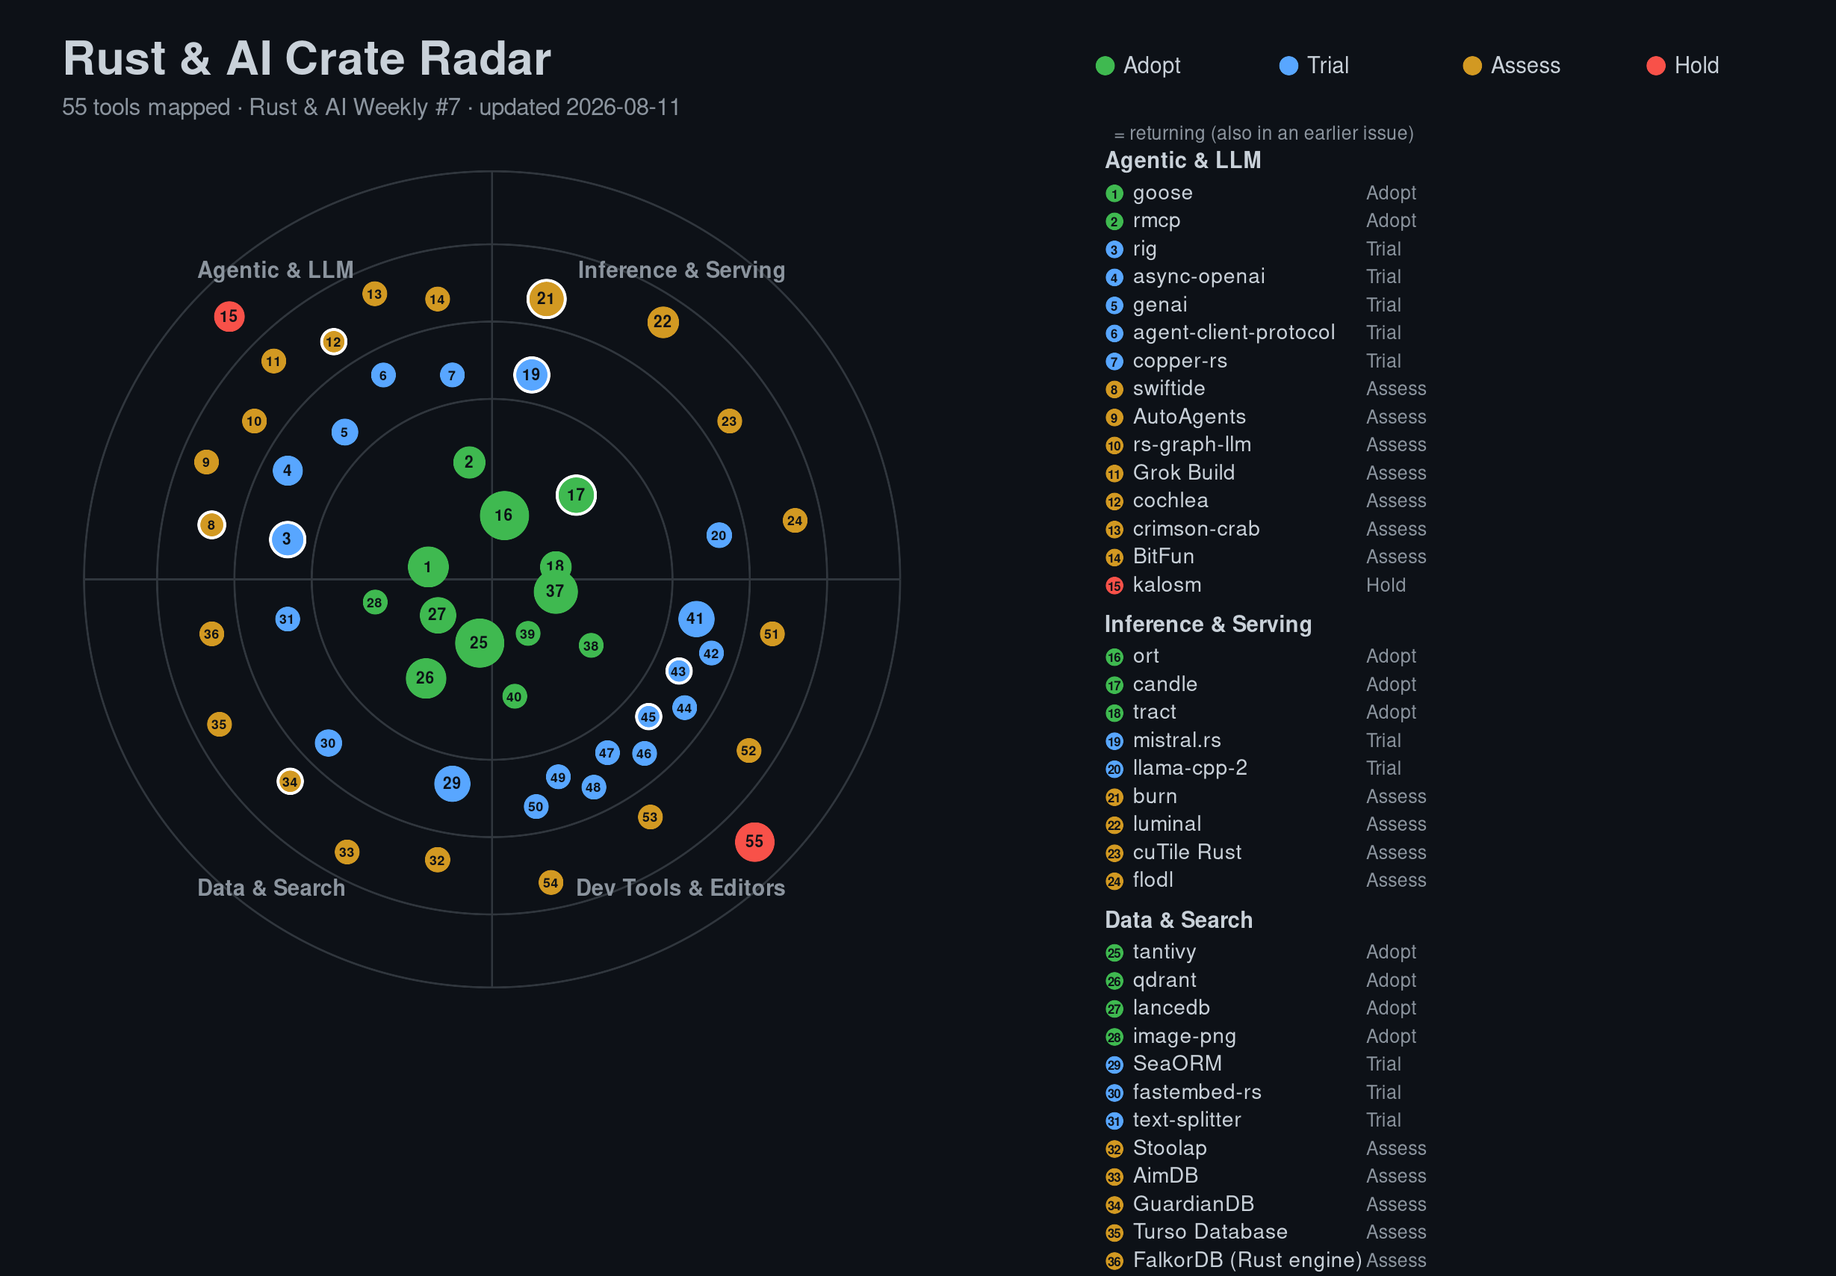
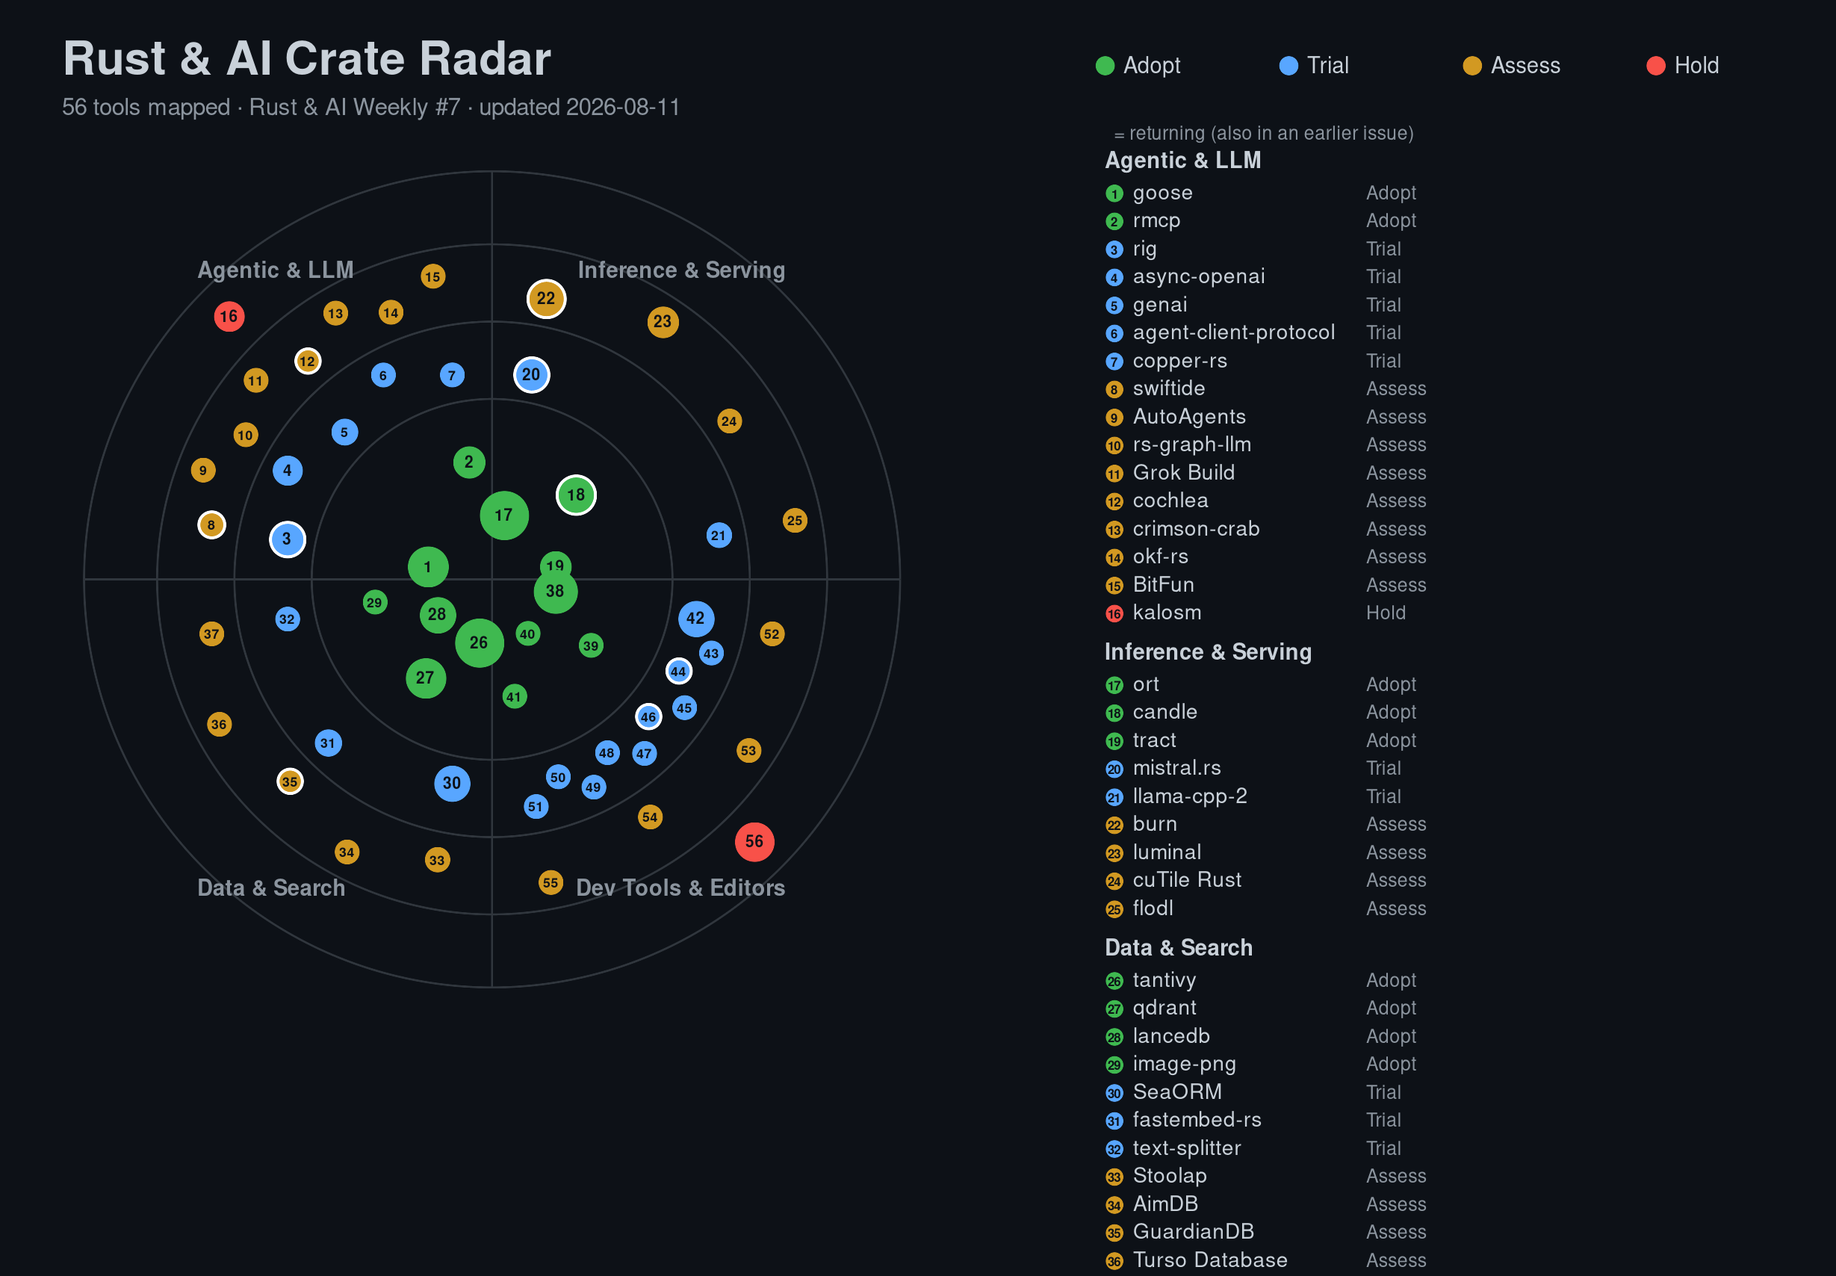
feat(radar): add okf-rs to Rust & AI Weekly #7 and crate radar
Adds okf-rs (tree-sitter codebase to deterministic Markdown call-graph
bundle, served over MCP) as a fifth new entry in issue #7, bringing the
radar to 56 tools.

- crateRadar.ts: new Assess-ring entry under agentic/code-knowledge
- issue #7 mdx: okf-rs write-up, updated intro count, added to the
  self-audit thread in the closing section
- launch notes: matching HTML block, extra X thread reply, alternate
  LinkedIn post on the context-economics angle, reader-pick credit and
  pre-publication verification caveats
- regenerated radar images and social cards (PNGs re-optimized, 547KB to
  230KB for the social card)

diff --git a/apps/web/src/data/crateRadar.ts b/apps/web/src/data/crateRadar.ts
@@ -407,6 +407,13 @@ export const crateRadarTools: RadarTool[] = [
     note: 'btop-style live monitor for what is actually in a Claude Code session context window: context map, cache economics, subagents; ships a forensic autopsy of its own vibe-coded construction (152h41m, 1,235 turns, ~$1,046, ~98% cache hit rate)',
   },
   {
+    name: 'okf-rs', url: 'https://github.com/jyjeanne/okf-rs', category: 'agentic/code-knowledge', quadrant: 'agentic',
+    ring: 'Assess', maintenance: 'brand new, solo maintainer (Jeremy JEANNE); MIT/Apache-2.0', latest: 'announced Aug 1, 2026; installs via cargo install --git (not on crates.io)',
+    adopters: 'none named; dogfooded on its own ~850-concept codebase',
+    mentions: 'Rust & AI Weekly #7 (2026-08-11)', returning: false,
+    note: 'tree-sitter codebase to deterministic, git-diffable Markdown call-graph bundle (Open Knowledge Format) plus an okf-mcp stdio server exposing graph_callers/callees/cycles/explore to any MCP client; precomputes the lookups agents currently pay full file size to answer; author-estimated ~6,000 tokens by hand vs ~15 via graph_callers; huge surface for one maintainer',
+  },
+  {
     name: 'BitFun', url: 'https://github.com/GCWing/BitFun', category: 'agentic/desktop', quadrant: 'agentic',
     ring: 'Assess', maintenance: 'actively developed (GCWing)', latest: 'v0.2.17 (Aug 2026)',
     adopters: 'none named',

diff --git a/apps/web/content/blog/_launch-notes-rust-ai-weekly-7.md b/apps/web/content/blog/_launch-notes-rust-ai-weekly-7.md
@@ -1,10 +1,11 @@
 # Launch pack — Rust & AI Weekly #7
 
 Live URL (verify 200 first): https://decebaldobrica.com/blog/2026-08-11-rust-ai-weekly-7
+Source file: `apps/web/content/blog/2026-08-11-rust-ai-weekly-7.mdx` (already renamed to match the slug — no `git mv` needed)
 Canonical for syndication (dev.to / Hashnode / Medium): same URL.
 
 Assets:
-- Radar image: `apps/web/public/images/radar/2026-08-11-radar.png` (55 tools, issue #7)
+- Radar image: `apps/web/public/images/radar/2026-08-11-radar.png` (56 tools, issue #7)
 - Issue card (X / LinkedIn / OG): `docs/social/rust-ai-weekly-7-card.png` (source: `rust-ai-weekly-7-card.svg`); 1250px copy at `apps/web/public/images/social/2026-08-11-rust-ai-weekly-7.png`
 - Hook card (standalone LinkedIn/X image for the "thought for the week"): `docs/social/publish-the-audit.png` (source: `publish-the-audit.svg`, plus `publish-the-audit.html` for the Playwright path)
 
@@ -21,7 +22,7 @@ Assets:
 ```html
 <p>Welcome back to <strong>Rust &amp; AI Weekly</strong>, the curated, vetted sweep of crates and tools showing up where Rust meets AI. Today's issue: webrtc-rs ships its Sans-I/O rewrite and grades its own roadmap, FalkorDB moves 80,000 lines of graph engine to Rust for GraphRAG, and a btop for your Claude Code context window. The theme this week is <strong>publish the audit</strong>: the lead story ships a scorecard of its own January promises, including the ones it broke; the graph database rewrite counted its test scenarios before it was allowed to count benchmarks; and even the Rust project itself wrote down the rules for auditing AI-written contributions. Roadmaps age; audits compound.</p>
 <p><em>(Status lines reflect public signals as of August 11, 2026; stars and downloads are approximate and move fast.)</em></p>
-<p>[[[ DROP 2026-08-11-radar.png HERE — caption: This week's radar: four new entries join the map, and kache logs yet another return visit. Link caption to https://decebaldobrica.com/radar ]]]</p>
+<p>[[[ DROP 2026-08-11-radar.png HERE — caption: This week's radar: five new entries join the map, and kache logs yet another return visit. Link caption to https://decebaldobrica.com/radar ]]]</p>
 <h2>Pick of the week</h2>
 <p><a href="https://webrtc.rs/blog/2026/07/31/announcing-webrtc-v0.20.0.html"><strong>webrtc 0.20</strong></a> — the most complete batteries-included Rust WebRTC implementation shipped the first stable release of its ground-up rewrite, and it matters to this newsletter for a simple reason: WebRTC is the transport under most real-time voice and video AI agents, and until now this option was a Tokio-coupled callback maze. The new architecture is Sans-I/O: the protocol state machines live in a separate <code>rtc</code> core you can test by feeding bytes and advancing a virtual clock, and the async crate on top is a thin driver with one handler trait replacing six-plus callback registrations. That design is a quiet vindication of <a href="https://github.com/algesten/str0m">str0m</a>, the sans-I/O Rust WebRTC stack that has been arguing this shape for years and already powers production SFUs. The <code>Runtime</code> trait became a genuine extension point late in the cycle, so runtime choice is per connection (Tokio, smol, or one you wrote yourself) rather than per binary, and the benchmarks come with receipts: data channels beat Pion by 1.7 to 3.2x in multi-connection aggregate at roughly a quarter of the CPU cycles per byte, while the release post admits plainly that single-connection default config still loses to Go's scheduler. What earns the pick, though, is the scorecard section: the team lined up January's published design against what shipped, and printed the misses next to the wins (no stream API, <code>&amp;self</code> instead of the promised <code>&amp;mut self</code>, an unfilled browser-interop matrix, two metrics simply unmeasured). The migration from 0.17.x is a real port, not a version bump, and 0.17.x is now bug-fix-only, so this belongs on a calendar the way syn 3 did last issue. Go deeper with <a href="https://webrtc.rs/blog/2026/07/18/from-13-mbps-to-beating-pion">From 13 Mbps to Beating Pion</a>, the performance war story behind the throughput table.</p>
 <p><em>Maintenance: actively maintained (webrtc-rs org; Sans-I/O rtc core underneath) · Latest: v0.20.2 (Aug 11, 2026; 0.20.0 landed Jul 31, two patches since, and a 0.21 alpha already tagged) · Adoption: <strong>Trial</strong>; the architecture is right and the receipts are honest, but the stable line is two weeks old and still taking patches, so port a non-critical service first</em></p>
@@ -31,6 +32,8 @@ Assets:
 <h2>Agents &amp; AI</h2>
 <p><a href="https://github.com/arian-shamaei/anthropometer"><strong>amtr</strong></a> — Arian Shamaei built a btop-style monitor that attaches to a Claude Code session and shows, live, exactly what is in the model's context window: a context map, cache economics, and subagent activity. Every team running coding agents eventually asks "what is actually in the context right now", and until now the honest answer was a shrug. The recursive twist is that amtr was itself vibe-coded in Claude Code, which means the complete token-level record of its own construction sits on disk in the very format it reads, and the repo ships a <a href="https://github.com/arian-shamaei/anthropometer/tree/main/docs/autopsy">forensic autopsy</a> of that build: 152 hours 41 minutes across 1,235 turns, roughly $1,046, and for every fresh token the model read it re-read about 120,000 from cache, a ~98% hit rate overall. That autopsy is the most concrete public accounting of what a long agentic build actually costs that I have seen, and it is worth reading before your next planning conversation about agent budgets.</p>
 <p><em>Maintenance: brand new, solo maintainer (Arian Shamaei) · Latest: v0.1.5 (Jul 30, 2026) · Adoption: <strong>Assess</strong>; a 0.1.x tool, but context observability is a category your team already needs, and the autopsy is required reading either way</em></p>
+<p><a href="https://github.com/jyjeanne/okf-rs"><strong>okf-rs</strong></a> — Jeremy JEANNE's Rust CLI attacks the problem amtr measures. An agent asked "who calls this function?" greps, opens half a dozen files, and pays full file size in context tokens to answer what is fundamentally a lookup. okf-rs precomputes it: <code>generate</code> walks a repo with tree-sitter and emits an Open Knowledge Format bundle, one plain Markdown file per module, struct, function, or method, each carrying a YAML header, a signature, and cross-linked callers and callees. The design choices are the interesting part. Output is deterministic, so identical source produces byte-identical files and the bundle is git-diffable and reviewable in a PR. Nothing proprietary reads it back: it is Markdown that renders on GitHub, so no runtime, no vector store, and no SDK sits between you and the artifact. No LLM is involved in producing it either, which keeps the optional AI enrichment genuinely optional rather than load-bearing. The payoff is <code>okf-mcp</code>, a stdio MCP server exposing <code>graph_callers</code>, <code>graph_callees</code>, <code>graph_cycles</code>, and a composite <code>explore</code> query to any MCP client, so the expensive parsing happens once at generate time instead of being re-paid on every question. Jeremy's headline figure, and it is his own estimate rather than an independent benchmark, is a single question on his codebase costing roughly 6,000 tokens read by hand against about 15 through <code>graph_callers</code>. Treat the multiplier as directional; the structural argument under it holds either way. The honest cautions: this is one maintainer carrying a very large surface (eleven languages, LSP disambiguation, Tantivy-backed search, DITA round-tripping, a PR-review GitHub Action), it installs from git rather than crates.io, and every number in the announcement is self-reported. It earns a place in this week's theme anyway, because the write-up records that dogfooding on its own roughly 850-concept codebase caught a real DITA bug a hand-written fixture would never have surfaced.</p>
+<p><em>Maintenance: brand new, solo maintainer (Jeremy JEANNE); MIT/Apache-2.0 · Latest: announced Aug 1, 2026; installs via <code>cargo install --git</code> · Adoption: <strong>Assess</strong>; the bundle format is the low-risk half (delete the directory and you are out), maintainer concentration is the real risk, so wire it into one repo's CI and see whether your agents' token curve actually flattens</em></p>
 <p><a href="https://github.com/GCWing/BitFun"><strong>BitFun</strong></a> — a desktop agent suite pairing a Rust agent runtime with a Tauri shell: a Code Agent, a general-purpose Cowork Agent, and Computer Use, with the interesting design bet that the agent builds a live interface per task (a chart, a board, a form) and binds the conversation to that interface's state. The performance claim worth noting is a resident cross-turn index the project says cuts search time by up to 94.6% on Chromium-scale trees, roughly 36x on average. Claims is the operative word: the project is at 0.2.17 after a burst of releases, and every number here is self-reported, including a 98.67% cache hit rate on a SWE-Bench-Pro run. It lands on the radar because the Rust-runtime-plus-Tauri-shell shape is becoming the default architecture for desktop agents (goose made the same call with TypeScript up top), and BitFun is the most complete open example of it this week.</p>
 <p><em>Maintenance: actively developed (GCWing) · Latest: v0.2.17 (Aug 2026) · Adoption: <strong>Assess</strong>; try the installer, read the runtime, and treat every benchmark claim as unverified until someone reproduces it</em></p>
 <h2>Language watch</h2>
@@ -49,7 +52,7 @@ Assets:
 <li>Lukas Herman wrote up <a href="https://pulsebeam.dev/blog/moving-to-thread-per-core">how PulseBeam cut its WebRTC SFU's P99.99 latency from 70ms to 10ms</a> by moving from Tokio work-stealing to thread-per-core, gaining 25% capacity on the way. Read it next to this issue's lead: their SFU runs on str0m with a per-thread <code>LocalRuntime</code>, and webrtc 0.20's dedicated-reactor benchmark tells the same story from the library side. On latency-bound real-time paths, scheduler choice is the architecture.</li>
 </ul>
 <h2>A thought for the week</h2>
-<p>The strongest pattern this week is not a crate, it is a genre: the self-audit. webrtc-rs printed its January roadmap next to what shipped and labeled the gaps. FalkorDB refused to benchmark until the test suite said the rewrite was correct. flodl did the same thing two issues ago with its own instruments. The reason this matters to engineering leaders is that roadmaps are cheap to write and expensive to check, so almost nobody checks them in public, and the teams that do are handing you their most reliable signal for free. When you evaluate a dependency, or a vendor, or for that matter a quarterly plan, ask for the column that lists what was promised and did not ship. Teams that publish that column have already done the hardest part of engineering management, which is telling the truth on a schedule.</p>
+<p>The strongest pattern this week is not a crate, it is a genre: the self-audit. webrtc-rs printed its January roadmap next to what shipped and labeled the gaps. FalkorDB refused to benchmark until the test suite said the rewrite was correct. okf-rs published the bug its own dogfooding found. flodl did the same thing two issues ago with its own instruments. The reason this matters to engineering leaders is that roadmaps are cheap to write and expensive to check, so almost nobody checks them in public, and the teams that do are handing you their most reliable signal for free. When you evaluate a dependency, or a vendor, or for that matter a quarterly plan, ask for the column that lists what was promised and did not ship. Teams that publish that column have already done the hardest part of engineering management, which is telling the truth on a schedule.</p>
 <h2>Before I go</h2>
 <p>The quote of the week comes from Koosha on the Rust users forum, abandoning a macro experiment because "the macro rules were turning into a turing complete rust syntax parser". Every proc-macro author has lived that sentence; it is also, quietly, the case for syn 3 from last issue.</p>
 <p>Also worth your time: Sylvain Kerkour wrote up <a href="https://kerkour.com/firecracker-sandboxing-rust">how Firecracker microVMs sandbox untrusted code and AI agents</a> under the hood. If you run agent-generated code anywhere near production, this is the isolation layer to understand.</p>
@@ -59,21 +62,29 @@ Assets:
 
 ---
 
-## X hook (267 chars)
+## X hook (271 chars)
 
 Attach: `docs/social/rust-ai-weekly-7-card.png`
 
 > Rust & AI Weekly #7 is out: publish the audit.
 >
-> webrtc-rs ships its Sans-I/O rewrite and grades its own January roadmap, misses included. FalkorDB moves 80k lines of graph engine to Rust. A btop for your Claude Code context window.
+> webrtc-rs ships its Sans-I/O rewrite and grades its own January roadmap, misses included. FalkorDB moves 80k lines of graph engine to Rust. Two Rust tools go after your agent's context bill.
 >
 > https://decebaldobrica.com/blog/2026-08-11-rust-ai-weekly-7
 
-### Optional X follow-up (thread reply)
+### X thread replies (optional, post in order)
+
+**Reply 1 — the measurement**
 
 > The amtr autopsy is the number I keep thinking about: 152h41m, 1,235 turns, ~$1,046, and for every token the model read fresh it re-read ~120,000 from cache.
 >
 > A 98% cache hit rate is not a footnote. It's the economics of long agentic builds.
+
+**Reply 2 — the fix**
+
+> okf-rs goes at the same problem from the other end: tree-sitter your repo into a deterministic Markdown call-graph bundle, then serve it over MCP.
+>
+> "Who calls this?" stops being a grep-and-read and becomes one lookup. Parse once at generate time instead of re-paying per question.
 
 ## LinkedIn hook
 
@@ -89,13 +100,31 @@ Attach: `docs/social/publish-the-audit.png`
 >
 > So when you evaluate a dependency, a vendor, or a quarterly plan, ask for the column listing what was promised and did not ship. Teams that publish that column have already done the hardest part of engineering management: telling the truth on a schedule.
 >
-> Issue #7 of Rust & AI Weekly has the verdicts, plus a live radar of 55 crates rated Adopt/Trial/Assess/Hold:
+> Issue #7 of Rust & AI Weekly has the verdicts, plus a live radar of 56 crates rated Adopt/Trial/Assess/Hold:
+>
+> https://decebaldobrica.com/blog/2026-08-11-rust-ai-weekly-7
+
+### Alternate LinkedIn post (context economics angle — use if the audit angle underperforms, or schedule mid-week)
+
+Attach: `docs/social/rust-ai-weekly-7-card.png`
+
+> Your coding agent's real bottleneck is probably not model capability. It's that it keeps paying full price to re-read things it already knows.
+>
+> Two Rust tools in this week's issue come at that from opposite ends.
+>
+> One attaches to a live agent session and shows you exactly what is in the context window right now: the map, the cache economics, the subagents. Its author then published a forensic autopsy of building it — 152 hours, 1,235 turns, and for every token the model read fresh, roughly 120,000 re-read from cache.
+>
+> The other stops the re-reading. It parses your repo once into a plain Markdown call-graph bundle, then serves it to any agent over MCP. "Who calls this function?" changes from grep-open-and-skim-six-files into one lookup. The expensive work happens at build time, not per question.
+>
+> The pattern worth stealing, whichever tools you use: measure the context budget before you optimise it, and move repeated lookups out of the token path entirely. Both are ordinary engineering discipline applied to a new cost centre.
+>
+> Verdicts on both, plus a radar of 56 Rust and AI crates rated Adopt/Trial/Assess/Hold:
 >
 > https://decebaldobrica.com/blog/2026-08-11-rust-ai-weekly-7
 
 ## r/rust + TWiR blurb
 
-> Rust & AI Weekly #7: engineering-leadership verdicts on webrtc 0.20 (the Sans-I/O rewrite, plus its self-graded roadmap), FalkorDB's 80k-line Rust graph engine, amtr (a btop for Claude Code context windows), and BitFun, plus a radar of 55 tools rated Adopt/Trial/Assess/Hold.
+> Rust & AI Weekly #7: engineering-leadership verdicts on webrtc 0.20 (the Sans-I/O rewrite, plus its self-graded roadmap), FalkorDB's 80k-line Rust graph engine, amtr (a btop for Claude Code context windows), okf-rs (codebase to deterministic Markdown call-graph bundle, served over MCP), and BitFun, plus a radar of 56 tools rated Adopt/Trial/Assess/Hold.
 > https://decebaldobrica.com/blog/2026-08-11-rust-ai-weekly-7
 
 ## dev.to / Hashnode notes
@@ -104,6 +133,12 @@ Attach: `docs/social/publish-the-audit.png`
 - Canonical URL: `https://decebaldobrica.com/blog/2026-08-11-rust-ai-weekly-7`
 - Cover image: `docs/social/rust-ai-weekly-7-card.png`
 - Tags: rust, ai, webrtc, opensource
+
+## Reader-pick credit
+
+okf-rs came in as a reader pick from the Medium write-up. Worth a reply to Jeremy JEANNE once the issue is live (he explicitly asked for feedback on whether the approach holds up on other codebases), and worth noting in issue #8's intro that reader picks are landing — it's the cheapest way to get more of them.
+
+Not independently verified before publication: okf-rs's repo state (stars, contributor count, release tags), whether `okf-cli`/`okf-mcp` are on crates.io, and the 11-language coverage claim. The entry is written to survive all three being off, since every number is attributed to the author, but a five-minute repo check before you hit publish would tighten it.
 
 ---
 
